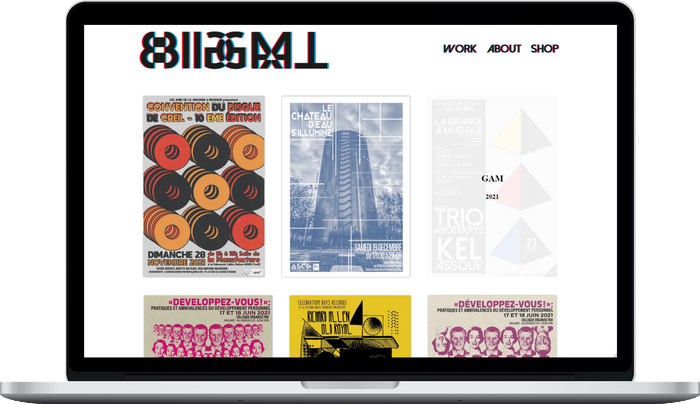
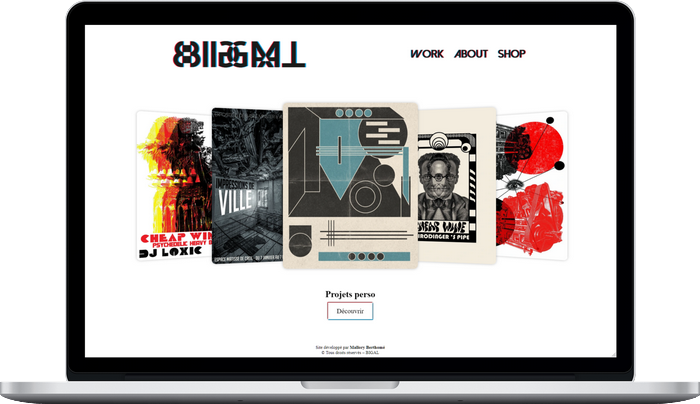
*

diff --git a/css/style.css b/css/style.css
@@ -143,13 +143,18 @@ br {
   width: 100%;
   transform: translate(-50%, -50%);
   text-align: center;
-  font-size: max(3vw, 3rem);
-  text-shadow: 0 0 5px rgba(255, 255, 255, 1);
+  font-size: 2.5rem;
   font-weight: normal;
 }
 
-.swiper-slide:not(:first-child) p a {
+.swiper-slide:not(:first-child) p span {
   display: none;
+  font-size: 2.25rem;
+}
+
+.swiper-slide:not(:first-child) p a {
+  font-size: 1.5rem;
+  text-decoration: underline;
 }
 
 .contact {
@@ -243,17 +248,14 @@ br {
     top: 15%;
     left: 50%;
     transform: translateX(-50%);
-    text-shadow: 0 0 5px rgba(255, 255, 255, 1);
+  }
+
+  .swiper-slide:not(:first-child) p span {
+    display: block;
   }
 
   .swiper-slide:not(:first-child) p a {
-    display: inline;
-    font-weight: normal;
     font-style: italic;
-  }
-
-  .swiper-slide:not(:first-child) p a:hover {
-    text-decoration: underline;
   }
 
   .photo {

diff --git a/js/script.js b/js/script.js
@@ -57,9 +57,9 @@ data.forEach((website) => {
   imgDesktop.alt = `${website.id} desktop`
   const websiteTitle = swiperSlide.appendChild(document.createElement('p'))
   if (website.url != '') {
-    websiteTitle.innerHTML = `${website.id} - <span><a href='${website.url}' target="_blank">SEE LIVE </a></span></br> ${website.date}`
+    websiteTitle.innerHTML = `${website.id} <br> <span>${website.date}</span> <a href='${website.url}' target="_blank">SEE LIVE </a>`
   } else {
-    websiteTitle.innerHTML = `${website.id}</br> ${website.date}`
+    websiteTitle.innerHTML = `${website.id} </br> <span>${website.date}</span>`
   }
 })
 const swiperSlide = swiperWrapper.appendChild(document.createElement('div'))

diff --git a/about.html b/about.html
@@ -32,7 +32,7 @@
 
     <div class="aboutMe">
       <div class="photo">
-        <img src="./img/selfportrait.webp" alt="" />
+        <img src="./img/selfportrait2.webp" alt="" />
       </div>
       <div class="presentation">
         <p>
